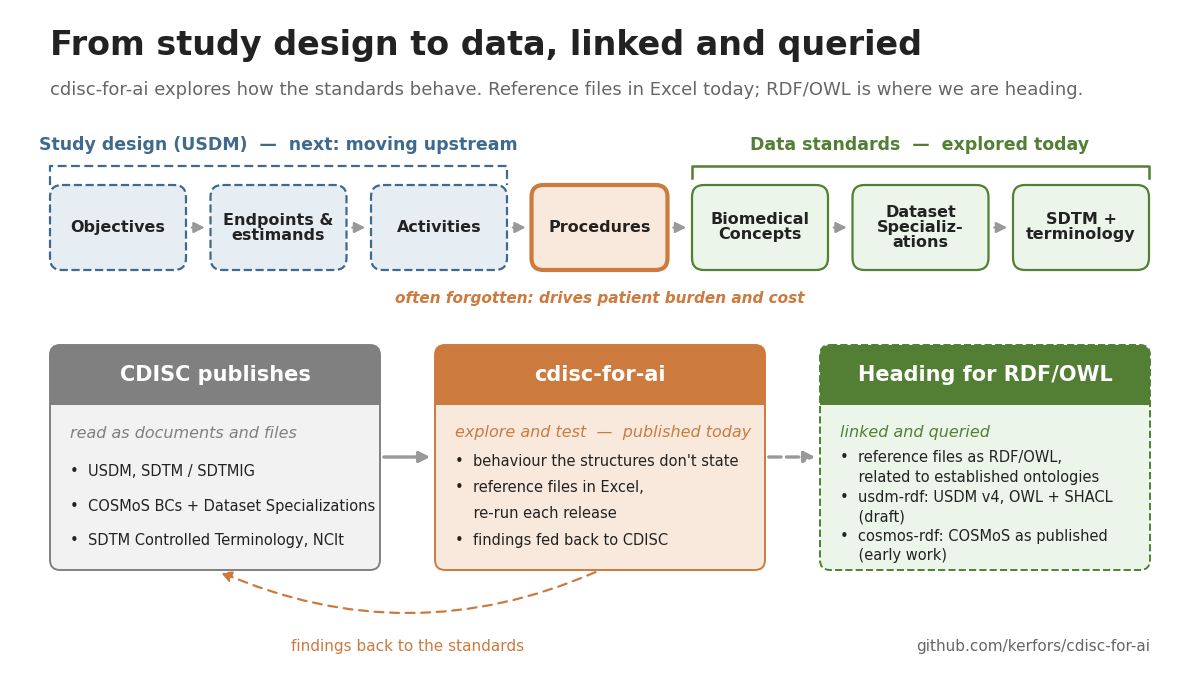
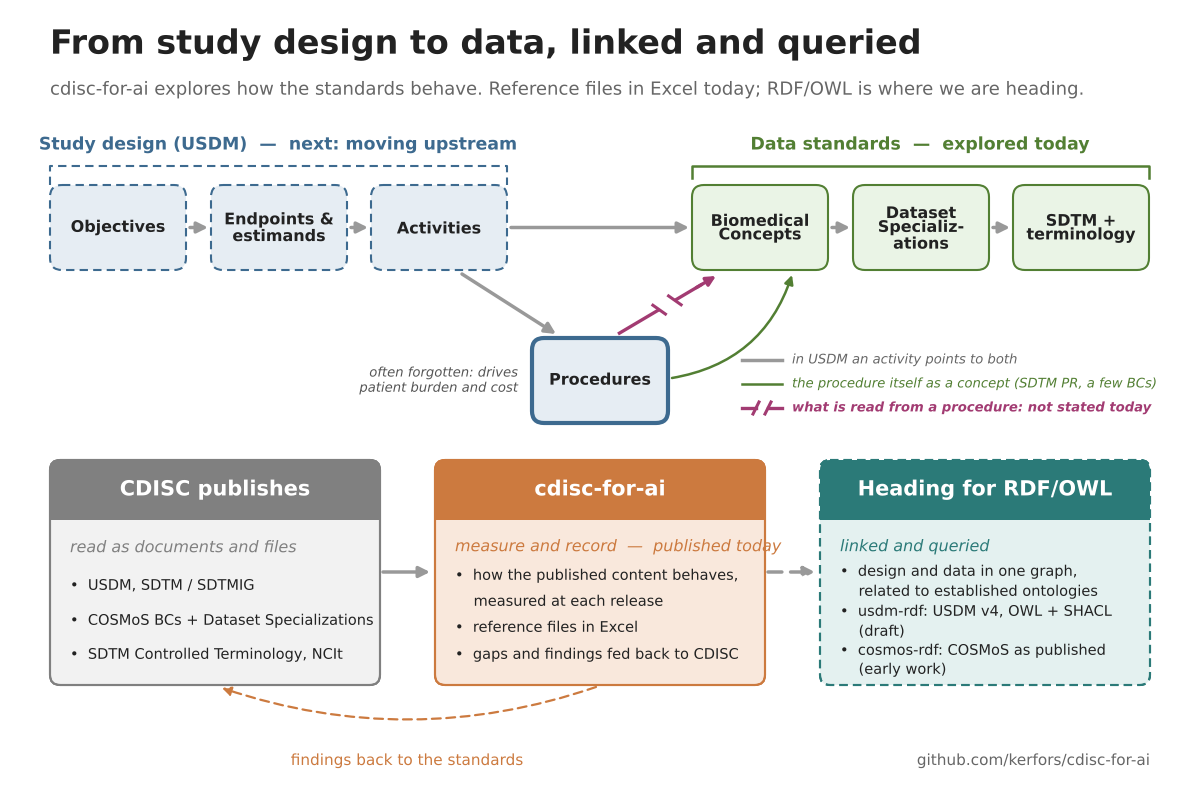
Front page picture and text: Activities, Procedures and Biomedical Concepts as a triangle

Changed region(s): [[0.0308, 0.0311, 0.9867, 0.9644], [0.74, 0.9333, 0.9558, 0.9644]]

diff --git a/docs/index.html b/docs/index.html
@@ -79,7 +79,7 @@
 
 <p><img src="images/cdisc_for_ai_design_to_data.png" alt="From study design to data, linked and queried" style="width:100%; height:auto; margin:0.5rem 0;"></p>
 
-<p>Machine-actionable reference files built from CDISC SDTM Controlled Terminology, NCIt, and COSMoS Biomedical Concepts and Dataset Specializations, designed for both human review and AI consumption. The analyses behind them measure how the standards actually behave. This is the test bed. Ideas are explored here first. The long-run aim is to publish the reference files as RDF/OWL that can express that underlying behaviour, related to established ontologies, so the standards can take part in the picture above: from study design to data, linked and queried.</p>
+<p>Machine-actionable reference files built from CDISC SDTM Controlled Terminology, NCIt, and COSMoS Biomedical Concepts and Dataset Specializations, designed for both human review and AI consumption. The analyses behind them measure how the standards actually behave. This is the test bed. Ideas are explored here first. The long-run aim is to publish the reference files as RDF/OWL that can express that underlying behaviour, related to established ontologies, so the standards can take part in the picture above: from study design to data, linked and queried. In the picture, Activities, Procedures and Biomedical Concepts form a triangle: USDM links an activity to both, but which concept is read from which procedure is not stated in the standards today.</p>
 
 <p><strong>Reference versions:</strong> SDTM CT 2026-09-25 (NCI EVS), COSMoS BC/DSS 2026-07-14, SDTMIG v3.4. Latest release note: <a href="https://github.com/kerfors/cdisc-for-ai/blob/main/docs/Changes_2026-10.md">Changes_2026-10.md</a>.</p>
 

diff --git a/docs/images/cdisc_for_ai_design_to_data.py b/docs/images/cdisc_for_ai_design_to_data.py
@@ -1,0 +1,110 @@
+# Draws docs/images/cdisc_for_ai_design_to_data.png (the picture on the Pages front page and in README.md).
+# Run: python3 cdisc_for_ai_design_to_data.py   (needs matplotlib and numpy)
+
+import matplotlib
+matplotlib.use("Agg")
+import matplotlib.pyplot as plt
+plt.rcParams["font.family"]="DejaVu Sans"
+from matplotlib.patches import FancyBboxPatch, FancyArrowPatch, Rectangle
+
+W, H, S = 1200, 805, 115          # S = extra height added below the top row
+fig = plt.figure(figsize=(W/100, H/100), dpi=100)
+ax = fig.add_axes([0, 0, 1, 1]); ax.set_xlim(0, W); ax.set_ylim(H, 0); ax.axis("off")
+
+BLUE, BLUE_F = "#3d6a8f", "#e6edf3"
+ORANGE, ORANGE_F = "#cc7a3f", "#f9e8dc"
+GREEN, GREEN_F = "#527f33", "#eaf4e6"
+GREY, DARK = "#999999", "#222222"
+
+def box(x, y, w, h, fc, ec, lw=1.5, ls="-", r=12):
+    ax.add_patch(FancyBboxPatch((x, y), w, h, boxstyle=f"round,pad=0,rounding_size={r}",
+                                fc=fc, ec=ec, lw=lw, ls=ls))
+def arrow(p, q, color=GREY, lw=2.5, ls="-", rad=0.0, ms=16):
+    ax.add_patch(FancyArrowPatch(p, q, arrowstyle="-|>", mutation_scale=ms, color=color,
+                                 lw=lw, ls=ls, connectionstyle=f"arc3,rad={rad}",
+                                 shrinkA=0, shrinkB=0))
+
+ax.text(50, 45, "From study design to data, linked and queried", fontsize=24, fontweight="bold", color=DARK, va="center")
+ax.text(50, 90, "cdisc-for-ai explores how the standards behave. Reference files in Excel today; RDF/OWL is where we are heading.",
+        fontsize=13, color="#666666", va="center")
+
+# headings and brackets
+ax.text(278, 145, "Study design (USDM)  \u2014  next: moving upstream", fontsize=12.5, fontweight="bold", color=BLUE, ha="center", va="center")
+ax.plot([50, 50, 507, 507], [185, 166, 166, 185], color=BLUE, lw=1.5, ls=(0, (4, 2.5)))
+ax.text(920, 145, "Data standards  \u2014  explored today", fontsize=12.5, fontweight="bold", color=GREEN, ha="center", va="center")
+ax.plot([692, 692, 1149, 1149], [178, 166, 166, 178], color=GREEN, lw=1.8)
+
+PLUM = "#a23b72"
+y0, bw, bh = 185, 136, 85
+row = [(50, "Objectives", 0), (211, "Endpoints &\nestimands", 0), (371, "Activities", 0),
+       (692, "Biomedical\nConcepts", 1), (853, "Dataset\nSpecializ-\nations", 1), (1013, "SDTM +\nterminology", 1)]
+for x, lab, g in row:
+    if g: box(x, y0, bw, bh, GREEN_F, GREEN)
+    else: box(x, y0, bw, bh, BLUE_F, BLUE, ls=(0, (4, 2.5)))
+    ax.text(x + bw/2, y0 + bh/2, lab, fontsize=11.5, fontweight="bold", color=DARK, ha="center", va="center", linespacing=0.95)
+ym = y0 + bh/2
+for x0, x1 in [(186, 211), (347, 371), (507, 692), (828, 853), (989, 1013)]:
+    arrow((x0 + 4, ym), (x1 - 3, ym))
+
+# third corner of the triangle: Procedures (a USDM class), below the gap
+px, py = 532, 338
+box(px, py, bw, bh, BLUE_F, BLUE, lw=3)
+ax.text(px + bw/2, py + bh/2, "Procedures", fontsize=11.5, fontweight="bold", color=DARK, ha="center", va="center")
+ax.text(px - 14, py + bh/2, "often forgotten: drives\npatient burden and cost", fontsize=9.5, fontstyle="italic",
+        color="#555555", ha="right", va="center", linespacing=1.15)
+yb = y0 + bh
+arrow((462, yb + 4), (556, py - 4))                                          # Activities -> Procedures (USDM)
+arrow((px + bw + 4, py + 40), (792, yb + 5), color=GREEN, lw=1.8, rad=0.3, ms=13)   # the procedure itself as a concept
+import numpy as np
+P0, P2 = np.array([618.0, py - 4]), np.array([716.0, yb + 6])                 # read from: not stated
+d = (P2 - P0)/np.linalg.norm(P2 - P0); n = np.array([-d[1], d[0]]); L = np.linalg.norm(P2 - P0)
+for t0, t1 in [(0, 0.42), (0.58, 0.86)]:
+    q0, q1 = P0 + d*L*t0, P0 + d*L*t1; ax.plot([q0[0], q1[0]], [q0[1], q1[1]], color=PLUM, lw=2.4, solid_capstyle="butt")
+for t in (0.42, 0.58):
+    p = P0 + d*L*t; v = 7*(n + 0.45*d); ax.plot([p[0]-v[0], p[0]+v[0]], [p[1]-v[1], p[1]+v[1]], color=PLUM, lw=2.2)
+arrow(tuple(P0 + d*L*0.8), tuple(P2), color=PLUM, lw=2.4, ms=14)
+
+# legend for the three kinds of link
+lx, ly = 742, py + 22
+ax.plot([lx, lx + 40], [ly, ly], color=GREY, lw=2.5)
+ax.text(lx + 50, ly, "in USDM an activity points to both", fontsize=9.5, fontstyle="italic", color="#666666", va="center")
+ax.plot([lx, lx + 40], [ly + 24, ly + 24], color=GREEN, lw=1.8)
+ax.text(lx + 50, ly + 24, "the procedure itself as a concept (SDTM PR, a few BCs)", fontsize=9.5, fontstyle="italic", color=GREEN, va="center")
+ax.plot([lx, lx + 14], [ly + 48, ly + 48], color=PLUM, lw=2.4); ax.plot([lx + 26, lx + 40], [ly + 48, ly + 48], color=PLUM, lw=2.4)
+for xx in (lx + 14, lx + 26): ax.plot([xx - 3, xx + 3], [ly + 54, ly + 42], color=PLUM, lw=2.2)
+ax.text(lx + 50, ly + 48, "what is read from a procedure: not stated today", fontsize=9.5, fontweight="bold",
+        fontstyle="italic", color=PLUM, va="center")
+
+# lower panels (shifted down by S)
+def panel(x, title, head, body_fc, ec, ls="-"):
+    y = 345 + S
+    box(x, y, 330, 225, body_fc, ec, ls=ls, r=10)
+    ax.add_patch(FancyBboxPatch((x, y), 330, 60, boxstyle="round,pad=0,rounding_size=10", fc=head, ec=head, lw=0))
+    ax.add_patch(Rectangle((x, y + 30), 330, 30, fc=head, ec=head, lw=0))
+    box(x, y, 330, 225, "none", ec, ls=ls, r=10)
+    ax.text(x + 165, y + 30, title, fontsize=15, fontweight="bold", color="white", ha="center", va="center")
+panel(50, "CDISC publishes", "#808080", "#f2f2f2", "#808080")
+panel(435, "cdisc-for-ai", ORANGE, ORANGE_F, ORANGE)
+TEAL, TEAL_F = "#2b7a78", "#e4f1f0"
+panel(820, "Heading for RDF/OWL", TEAL, TEAL_F, TEAL, ls=(0, (4, 2.5)))
+
+def lines(x, y, head, hc, items, dy):
+    ax.text(x, y + S, head, fontsize=11.5, fontstyle="italic", color=hc, va="center")
+    for k, t in enumerate(items):
+        ax.text(x, y + S + dy[k], t, fontsize=10.5, color=DARK, va="center")
+lines(70, 433, "read as documents and files", "#808080",
+      ["•  USDM, SDTM / SDTMIG", "•  COSMoS BCs + Dataset Specializations", "•  SDTM Controlled Terminology, NCIt"], [38, 73, 107])
+lines(455, 432, "measure and record  —  published today", ORANGE,
+      ["•  how the published content behaves,", "    measured at each release", "•  reference files in Excel", "•  gaps and findings fed back to CDISC"], [29, 55, 81, 108])
+lines(840, 432, "linked and queried", TEAL,
+      ["•  design and data in one graph,", "    related to established ontologies", "•  usdm-rdf: USDM v4, OWL + SHACL", "    (draft)",
+       "•  cosmos-rdf: COSMoS as published", "    (early work)"], [25, 45, 65, 85, 104, 123])
+
+arrow((383, 457 + S), (430, 457 + S))
+arrow((768, 457 + S), (815, 457 + S), ls=(0, (4, 2.5)))
+arrow((596, 572 + S), (222, 573 + S), color=ORANGE, lw=1.6, ls=(0, (4, 2.5)), rad=-0.17, ms=13)
+ax.text(407, 646 + S, "findings back to the standards", fontsize=11, color=ORANGE, ha="center", va="center")
+ax.text(1150, 646 + S, "github.com/kerfors/cdisc-for-ai", fontsize=11, color="#666666", ha="right", va="center")
+
+import os
+fig.savefig(os.path.join(os.path.dirname(os.path.abspath(__file__)), "cdisc_for_ai_design_to_data.png"), dpi=100, facecolor="white")

diff --git a/README.md b/README.md
@@ -20,7 +20,7 @@ Related, early work: `cosmos-rdf` renders COSMoS as RDF, as published. Rendering
 
 On the data side, the way forward is set out in [`docs/Observables_Direction.md`](docs/Observables_Direction.md): find out what identifies an observable, make the reference files express it, then move towards RDF/OWL.
 
-The next step is upstream: to understand the data standards in relation to study design -- objectives, endpoints, estimands, and the activities and procedures that produce the data. Procedures are the part we often forget, yet they drive much of the patient burden and cost. USDM already links activities to Biomedical Concepts, so the bridge is there to explore.
+The next step is upstream: to understand the data standards in relation to study design -- objectives, endpoints, estimands, and the activities and procedures that produce the data. Procedures are the part we often forget, yet they drive much of the patient burden and cost. USDM links an activity both to its procedures and to Biomedical Concepts, so the bridge is there to explore. What the standards do not state is which concept is read from which procedure. SDTM has a domain for procedures (PR), and COSMoS has a few Biomedical Concepts for it, but these record the procedure itself, not what is read from it.
 
 ## Why
 
